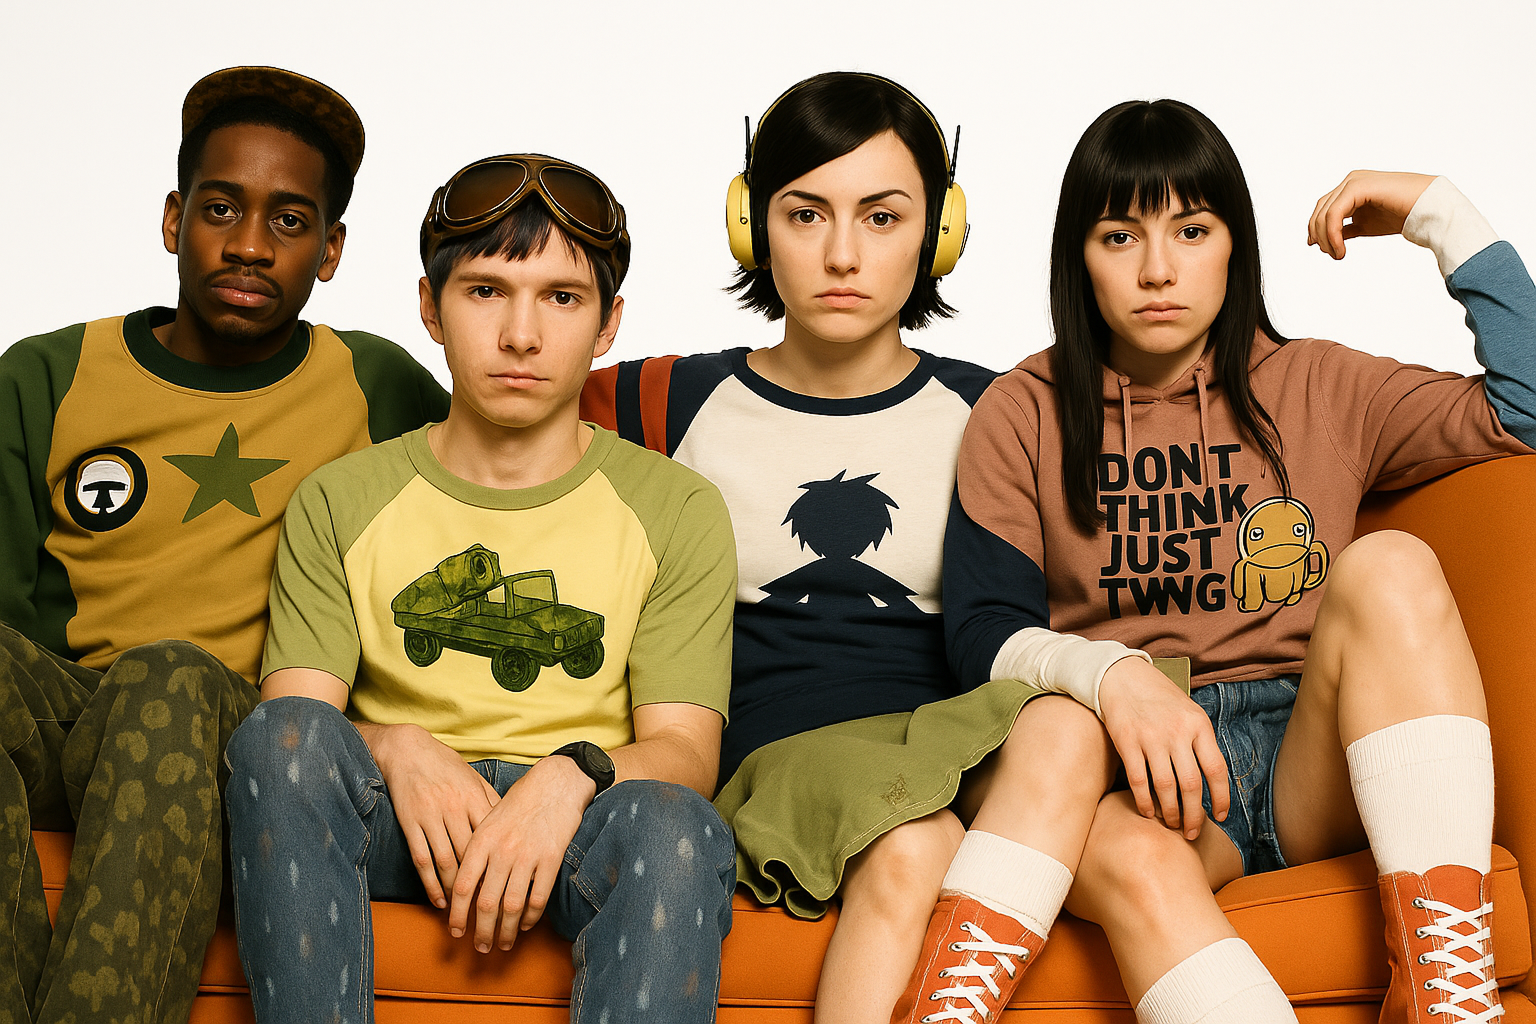
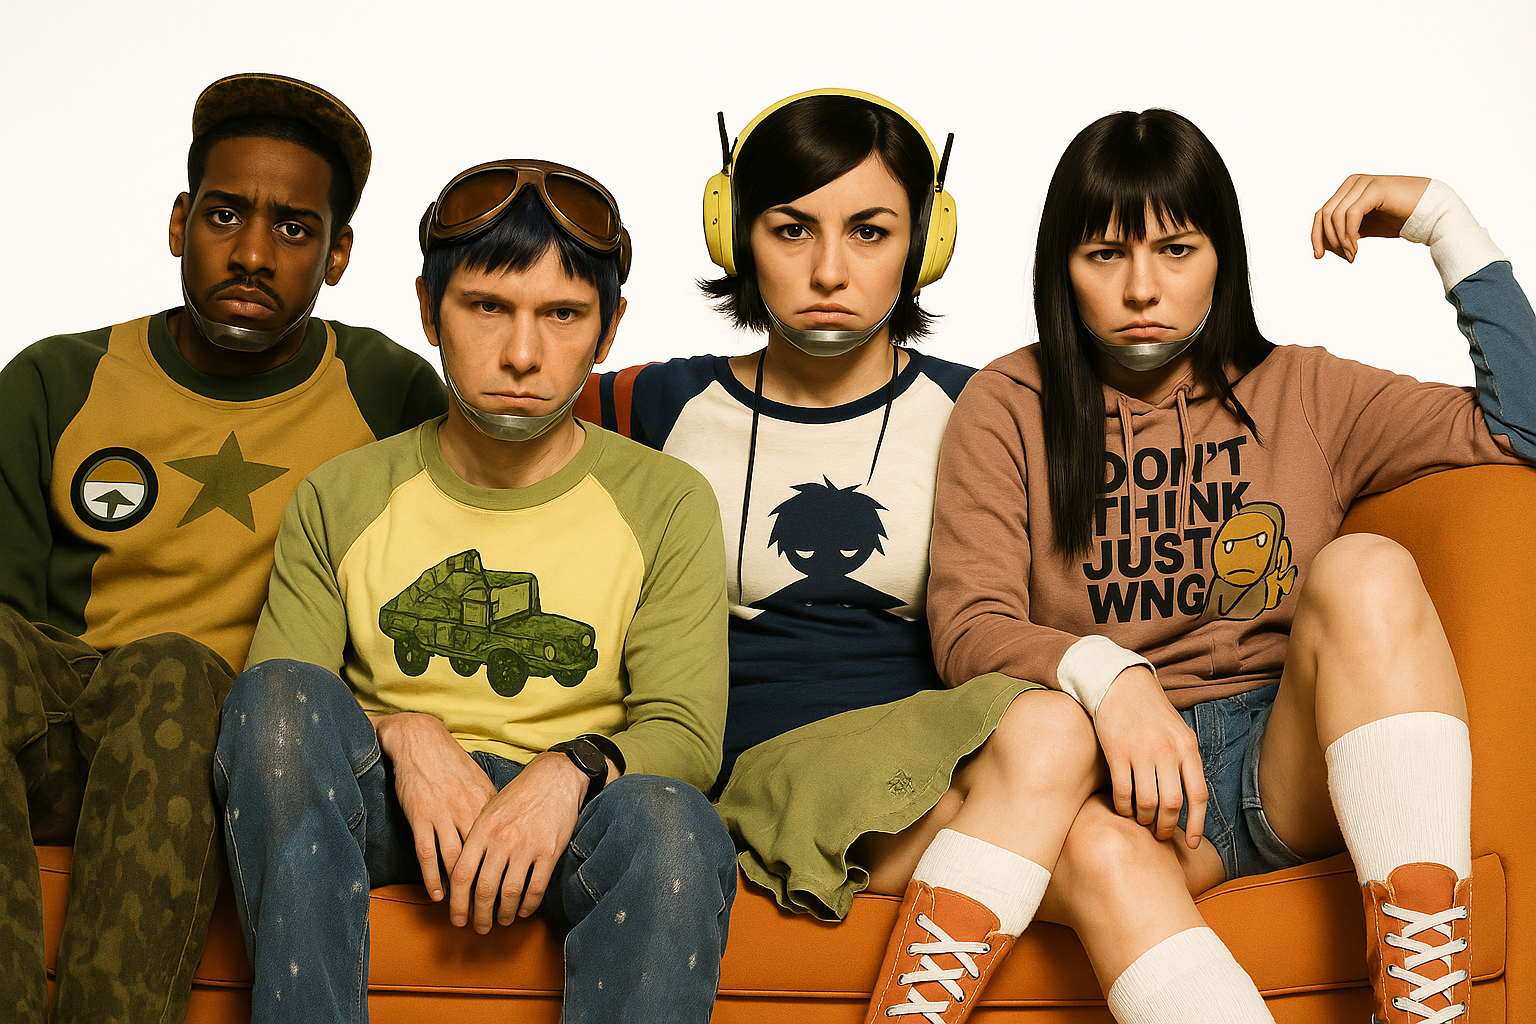
feat: dark history imgs update

diff --git a/src/pages/common/History.tsx b/src/pages/common/History.tsx
@@ -151,16 +151,16 @@ const impactCards = {
   ],
   dark: [
     {
-      image: "./imgs/w-history-impact1.png",
+      image: "./imgs/d-history-impact1.png",
       text: "**아이들은** 더는 스스로 문장을 만들지 않습니다. \n사고는 시스템이 설계하고,\n표현을 통제하며 사회적 단일화를 이룹니다.",
     },
     {
-      image: "./imgs/w-history-impact2.png",
+      image: "./imgs/d-history-impact2.png",
       text: "**직장인은** AI와 회사의 통제를,\n감시를, 검열을 거부할 수 없습니다.\n허용된 말만이 교양이 되었고,\n이견은 부적절함으로 분류됩니다.",
     },
     {
-      image: "./imgs/w-history-impact3.png",
-      text: "**노년층은** 이제 기억대로 말하지 못합니다.\nAI와 기계의 제어권을 잃고,\n자신의 언어를 더 빠르게 잃습니다.",
+      image: "./imgs/d-history-impact3.png",
+      text: "**노년층은** 이제 소통에서 고립됩니다.\nAI와 기술에 의해 소외되고,\n자신의 언어를 빠르게 잃습니다.",
     },
   ],
 };

diff --git a/src/content/articles/dark/article-2.tsx b/src/content/articles/dark/article-2.tsx
@@ -9,6 +9,9 @@ import {
 export const article2 = (
   <ArticleWrapper>
     <Text>
+      <i>- YJN 뉴스 김수나 기자 | 2055.09.19</i>
+    </Text>
+    <Text>
       다국적 기업 Z사는 약 6개월 전부터 ‘건강한 기업문화 조성’을 이유로
       전사적으로 AI 통역기 시스템을 도입했다. 이 통역기는 직원들의 말을
       실시간으로 분석해 공격적 표현이나 부정적 단어를 자동으로 완화시키고,

diff --git a/src/content/articles/dark/article-1.tsx b/src/content/articles/dark/article-1.tsx
@@ -9,7 +9,7 @@ import {
 export const article1 = (
   <ArticleWrapper>
     <Text>
-      <i>기자 알렉스 모건 / 2051.06.02</i>
+      <i>- 기자 알렉스 모건 | 2051.06.02</i>
     </Text>
     <Text>
       AI 통역기 inTone은 사용자의 말투와 정서를 정제해 전달력을 높여준다는

diff --git a/src/content/articles/dark/article-3.tsx b/src/content/articles/dark/article-3.tsx
@@ -7,6 +7,10 @@ import {
 
 export const article3 = (
   <ArticleWrapper>
+    <Text>
+      <i>- 강지수 사설칼럼 | 한국과학기술원 인문사회학부 교수</i>
+    </Text>
+    <br />
     <Strong>
       누군가는 요즘, 말하기 전에 충전부터 한다.
     </Strong>
